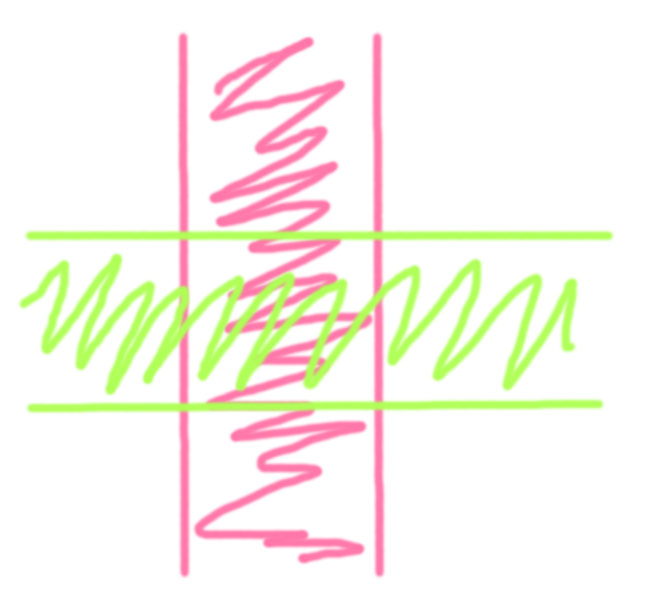
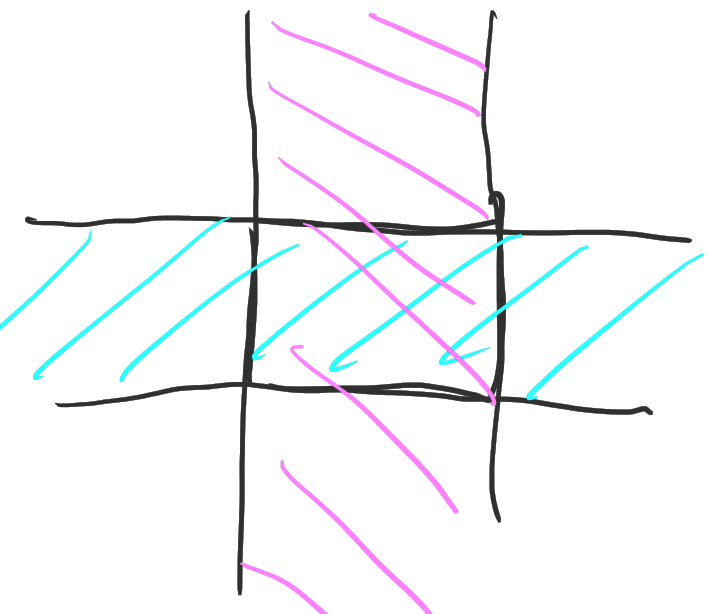
lecture 3 added

Changed region(s): [[0.0, 0.0, 0.9816, 1.0], [0.9202, 0.4339, 0.9509, 0.4649]]

diff --git a/Lectures/4_Semester/Measure&Lebesgue_Integral/2021_Gusev/units/03.tex b/Lectures/4_Semester/Measure&Lebesgue_Integral/2021_Gusev/units/03.tex
@@ -1,0 +1,226 @@
+\newpage
+\lecture{3}{Продолжение борелевской истории и теорема Дынкина.}
+
+\subsection{Структура минимальной сигма-алгебры.}
+
+\begin{exercise}
+    Пусть $\F$~--- семейство всех конечных подмножеств множества $X$. Найти $\sigma(\F)$.
+\end{exercise}
+
+\begin{solution}
+    По определению $\sigma$"=алгебры $\forall A_1,\,A_2,\,\ldots\in\sigma(\F):\ \bigcup\limits_
+        {n=1}^{\infty}A_n\in\sigma(\F)$. В частности, это верно для $\forall A_1, \, A_2,\,\ldots\in\F\Rightarrow$ в $\sigma(\F)$
+    войдут все не более чем счётные подмножества множества $X$. Кроме того, $\forall A\in\sigma(\F)$ выполнено, что $A^C=X\setminus A\in\sigma(\F)
+        \Rightarrow$ в $\sigma(\F)$ войдут также дополнения всех не более чем счётных множеств.
+
+    Итак, $\CG=\{A\subset X:\ A \text{ или } A^C\text{ не более чем счётно}\}\subset\sigma(\F)$.
+    Проверим что $\CG$~--- $\sigma$"=алгебра.
+    \begin{enumerate}[label=\arabic*\degree.]
+        \item $\varnothing\in\CG$~--- очевидно.
+        \item $\forall A\in\CG:\ A^C\in\CG$ по построению.
+        \item Если доказать, что $\forall A,\, B\in\CG:\ A\cap B\in\CG$, то сразу следует, что и
+              $A\cup B = (A\cup B)^{CC}=(A^C\cap B^C)^C\in\CG$ (и наоборот, можно доказать лишь замкнутость по объединению и
+              из неё сразу следует замкнутость по пересечению).
+
+              Докажем сразу, что $\forall A_1,\,\ldots,\, A_n,\, \ldots\in\CG$ выполнено $\bigcup\limits_{n=1}^{\infty}A_n\in\CG$,
+              то есть докажем разом замкнутость и то, что это именно $\sigma$"=алгебра.
+              \begin{enumerate}[label=(a)]
+                  \item Пусть $\forall n\in\N\ A_n$ не более чем счётно, тогда $\bigcup\limits_{n=1}^{\infty}A_n\in\CG$ так как
+                        объединение так же не более чем счётно.
+                  \item Если (a) не выполнено, то $\exists n\in\N:\ A_n$~--- более чем счётно, но так как $A_n\in\CG$, то
+                        $A_n^C$~--- не более чем счётно, тогда
+                        \[
+                            \bigcup_{k=1}^{\infty}A_k=\left(\bigcup_{k=1}^{\infty}A_k\right)^{CC}=
+                            \left(\bigcap_{k=1}^{\infty}A_k^C\right)^C.
+                        \]
+                        Теперь заметим, что в силу свойств пересечения $\bigcap\limits_{k=1}^{\infty}A_k^C\subset A_n^C$, то есть
+                        $\bigcap\limits_{k=1}^{\infty}A_k^C$ тоже не более чем счётно, а значит $\bigcup\limits_{k=1}^{\infty}A_k\in\CG$,
+                        так как его дополнение не более чем счётно.
+              \end{enumerate}
+    \end{enumerate}
+
+    Тогда из $\F\subset \CG$ следует, что $\sigma(\F)\subset\CG$
+    в силу минимальности по вложению $\sigma(\F)$. Откуда следует, что $\sigma(\F)=\CG$.
+
+\end{solution}
+
+\subsection{Структура борелевской сигма-алгебры.}
+
+Напомним кратко понятия. $K_d$~--- семейство всех клеток в $\R^d$.
+Борелевская сигма-алгебра $\FB(\R^d)=\sigma(\tau)$, где $\tau$~--- семейство всех открытых
+множеств $U\subset  \R^d$, то есть, так называемая <<евклидова топология>>.
+
+\begin{definition}
+    Множество называется \mdef{борелевским} тогда и только тогда, когда оно является элементом
+    борелевской сигма-алгебры.
+\end{definition}
+
+\begin{claim}
+    $\sigma(K_d)=\FB(\R^d)$
+
+    \begin{proof}
+
+        Заметим, что $K_d\subset \FB(\R^d)$, в самом деле
+        \[
+            K = I_1\times\ldots\times I_d=
+            =(I_1\times\R\times\ldots\times\R)\cap
+            (\R\times I_2\times\ldots\times \R)\cap\ldots\cap
+            (\R\times\R\times\ldots\times I_d),
+        \]
+        то есть представляем клетку как пересечение <<полос>> (см. рисунок \ref{fig:tapes}).
+
+        \begin{figure}[!ht]
+            \centering
+            \includegraphics[width=0.25\textwidth]{tapes.png}
+            \caption{Двумерные полоски.}
+            \label{fig:tapes}
+        \end{figure}
+
+        Теперь посмотрим на промежутки:
+
+        \begin{align*}
+            I_1=\left[
+            \begin{array}{ll}
+                (a,\, b) \text{~--- открытое} \Rightarrow\in\FB(\R),\\
+                \left[ a,\, b\right)=\bigcap\limits_{n=1}^{\infty} 
+                \left(a-\dfrac{1}{n},\, b\right)\Rightarrow \in\FB(\R),\\ 
+                \left( a,\, b\right]\text{~--- аналогично}\in\FB(\R),\\
+                \left[a,\, b\right]\text{~--- дополнение к открытому}\Rightarrow\in\FB(\R).
+            \end{array}
+            \right .
+        \end{align*}
+
+        Аналогично множества $(I_1\times\R\times\ldots\times\R),\,
+        (\R\times I_2\times\ldots\times \R),\,\ldots,\,
+        (\R\times\R\times\ldots\times I_d)\in\FB(\R^d)$. А следовательно и их пересечение является
+        борелевским множеством. 
+
+        Итак, доказано, что $K_d\subset \FB(\R^d)\Rightarrow \sigma(K_d)\subset\FB(\R^d)$.
+
+        Докажем теперь, что $\FB(\R^d)\subset \sigma(K_d)$. Так как 
+        $\FB(\R^d)=\sigma(\tau)$ (см. определение), то достаточно доказать, что 
+        $\tau\subset \sigma(K_d)$, в самом деле, если $\tau\subset \sigma(K_d)$, то 
+        $\sigma(\tau)\subset \sigma(K_d)$ в силу минимальности $\sigma(\tau)$ по вложению.
+
+        Пусть $U\in\tau$. Докажем, что $U\in\sigma(K_d)$.
+
+        \begin{figure}[!ht]
+            \centering
+            \includegraphics[width=0.6\textwidth]{upic.png}
+            \caption{Множество $U$.}
+            \label{fig:upic}
+        \end{figure}
+
+        $U$ открытое, поэтому $\forall x\in U\ \exists r>0:\ B_r(x)\subset U$, где $B_r(x)$~--- 
+        $d$"=мерный шар радиуса $r$ с центром в точке $x$. Поймем какого размера должен быть 
+        $d$"=мерный куб, чтобы его можно было вписать в данный шар. Должно выполнится следующее 
+        неравенство: $\left(\dfrac{a}{2}\right)^2\cdot d\leqslant r^2$, где $a$~--- искомая сторона
+        куба (неравенство следует из теоремы Пифагора: полудиагональ куба складывается из $d$ частей, 
+        каждая длиной $\frac{a}{2}$). Откуда $a\leqslant \dfrac{2r}{\sqrt{d}}$. Таким образов любое 
+        открытое множество можно представить в виде объединения таких кубиков (на рисунке \ref{fig:upic} это розовый квадрат),
+        а кубики уже принадлежат семейству клеточных множеств.
+        
+        Но возникает проблема: такое объеденение кубиков может оказаться более чем счётным, поэтому сделаем финт ушами:
+        сожмём кубик так, чтобы координаты его граней были рациональными (на рисунке это синий квадратик) и обзовем его $Q_x$.
+        Множество таких кубов счётно, так как все такие кубы можно параметризовать точками $\Q^{2d}\Rightarrow$ данное семейство 
+        счётно. 
+
+        Тогда $\forall x\in U$ поставим в соответствие соответствующий куб $Q_x\subset B_r(x)\subset U$ и 
+        $U=\bigcup\limits_{x\in U}\{x\}\subset \bigcup\limits_{x\in U}Q_x$~--- представимо в виде 
+        не более чем счётного объединения, так как число кубов счётно и значит $U=\bigcup\limits_{x\in U}Q_x\in\sigma(K_d)$.
+
+    \end{proof} 
+\end{claim}
+
+\subsection{Теорема Дынкина.}
+
+\begin{definition}
+    Семейство $\F\subset \CP(X)$ называется:
+    \begin{enumerate}[label=\arabic*)]
+        \item \mdef{$\pi$"=системой}, если $\forall A,\, B\in\F$ выполнено, что $A\cap B\in\F$;
+        \item \mdef{$\lambda$"=системой}, если, во-первых, $\varnothing\in\F$, во-вторых,
+        $\forall A\in\F$ выполнено, что $A^C\in\F$, а также для любых попарно непересекающихся 
+        $D_1,\, \ldots,\, D_n,\,\ldots\in\F$ выполнено $\bigsqcup\limits_{k=1}^{\infty} D_k\in\F$.
+    \end{enumerate}
+\end{definition}
+
+\begin{exercise}
+    $\lambda$"=система в общем случае не всегда является $\pi$"=системой. Например, пусть 
+    $X=\{1,\,2,\,3,\,4\}$ и 
+    \[
+        \F = \{\varnothing,\, X,\, \{1,\,2\},\, \{1,\,3\},\,\{1,\,4\},\,\{2,\,3\},\,\{2,\,4\},\,\{3,\,4\}\}.    
+    \]
+    Легко видеть, что это $\lambda$"=система, но не $\pi$"=система, так как $\F$ не замкнута относительно пересечения.
+\end{exercise}
+
+На прошлой лекции было доказано следующее утверждение (теперь в новой терминологии):
+\begin{claim}
+    $\F\subset\CP(X)$ является $\sigma$"=алгеброй тогда и только тогда, когда $\F$ 
+    одновременно является $\pi$"=системой и $\lambda$"=системой.
+\end{claim}
+
+\begin{figure}[!ht]
+    \centering
+    \includegraphics[width=0.5\textwidth]{sets.png}
+    \caption{К теореме Дынкина (\ref{theorem:dynkin})}
+    \label{fig:sets}
+\end{figure}
+
+\begin{theorem}[Дынкин]
+    \label{theorem:dynkin}
+
+    Пусть $\F\subset\CP(X)$~--- $\pi$"=система, $\CE\subset\CP(X)$~--- $\lambda$"=система и
+    $\F\subset\CE$. Тогда $\sigma(\F)\subset\CE$ (равенство возможно).
+
+    \begin{proof}
+        Пусть $\CD\subset \CP(X)$~--- пересечение всех $\lambda$"=систем $\CG\subset\CP(X)$, 
+        таких что $\F\subset\CG$. Докажем, что $\sigma(\F)\subset\CD$, для этого достаточно доказать, 
+        что $\CD$ является $\sigma$"=алгеброй (снова в силу минимальности).
+
+        Заметим, что $\CD$~--- $\lambda$"=система (доказывается так же как и факт о том, что пересечение сигма-алгебр является
+        сигма-алгеброй). Тогда достаточно показать, что $\CD$~--- $\pi$"=система, то есть, что 
+        $\forall M,\, N\in\CD$ выполняется, что $M\cap N\in\CD$.
+
+        Введем обозначение: $\CH(M)=\{N\in\CD:\: M\cap N\in\CD\}$, где $M$~--- любой элемент $\CD$. То есть 
+        условие о замкнутости по пересечению можно переформулировать так: $\forall M\in\CD$ выполнено $\CH(M)=\CD$.
+
+        \begin{lemma}
+            $\forall M\in\CD$ верно, что $\CH(M)$ является $\lambda$"=системой.
+
+            \begin{proof}
+                Во-первых, $\varnothing\in\CH(M)$, так как $\forall N\in\CD:\ \varnothing\cap N=\varnothing\in\CD$ по определению.
+
+                Во-вторых, докажем, что $\CH(M)$ замкнуто относительно взятия дополнений. Пусть $A\in\CH(M)$. 
+                Заметим, что
+                \begin{equation}
+                    \label{eq:lemmastate}
+                    A\in\CH(M)\ \forall M\in\CD\Leftrightarrow\forall N\in\CD:\ A\cap N\in\CD.
+                \end{equation}
+                И в частности 
+                \[
+                    A^C\in\CH(M)\ \forall M\in\CD\Leftrightarrow\forall N\in\CD:\ A^C\cap N\in\CD.    
+                \]
+                Правое условие, в силу того, что $\CD$~--- $\lambda$"=система эквивалентно тому, что 
+                $(A^C\cap N)^C\in\CD$ (из замкнутости по дополнению). Но $(A^C\cap N)^C=A\cup N^C=(A\cap N)\sqcup N^C\in\CD$ 
+                (см. рис. \ref{fig:sets}). Итак, $A^C\in\CH(M)$.
+
+                Докажем замкнутость относительно дизъюнктных объединений. Пусть 
+                $A_1,\,\ldots,\,A_n,\,\ldots\in\CH(M)$ попарно не пересекаются. Тогда $\forall N\in\CD$:
+                \[
+                    \left(\bigsqcup_{n=1}^{\infty}A_n\right)\cap N=\bigsqcup_{n=1}^{\infty}\left(A_n\cap N\right)\in \CD,
+                \]
+                так как $A_n\cap N\in\CD$ (см. условие \eqref{eq:lemmastate}) и $\CD$~--- $\lambda$"=система.
+
+            \end{proof}
+        \end{lemma}
+
+        Пусть $M\in\F\subset\CD$ (по построению). Зададимся вопросом: для каких $N\in\CD$ выполнено, что $M\cap N\in\CD$?
+        Если $N\in\F$, то $M\cap N\in\F$, так как $\F$~--- $\pi$"=система. Поэтому $\forall N\in\F$
+        выполнено $N\in\CH(M)$, то есть $\F\subset\CH(M)$, а значит $\CH(M)$~--- одна из $\lambda$"=систем, включающих в себя 
+        $\F$, следовательно, в силу минимальности по вложению, $\CD\subset\CH(M)$ для $\forall M\in\F$, 
+        то есть $\forall N\in\CD,\, \forall M\in\F$ выполнено $M\cap N\in\CD$. А значит $\forall N\in\CD$ выполнено $\F\subset\CH(N)$, и 
+        снова в силу минимальности $\CD\subset \CH(N)$. Итак, $\forall N,\, M\in\CD$ выполнено $M\cap N\in\CD$.
+        
+    \end{proof}
+\end{theorem}
+

diff --git a/Lectures/4_Semester/Measure&Lebesgue_Integral/2021_Gusev/main.tex b/Lectures/4_Semester/Measure&Lebesgue_Integral/2021_Gusev/main.tex
@@ -27,6 +27,7 @@
 \tableofcontents
 \input{units/01}
 \input{units/02}
+\input{units/03}
 
 % \input{etc/additional}
 \end{document}
